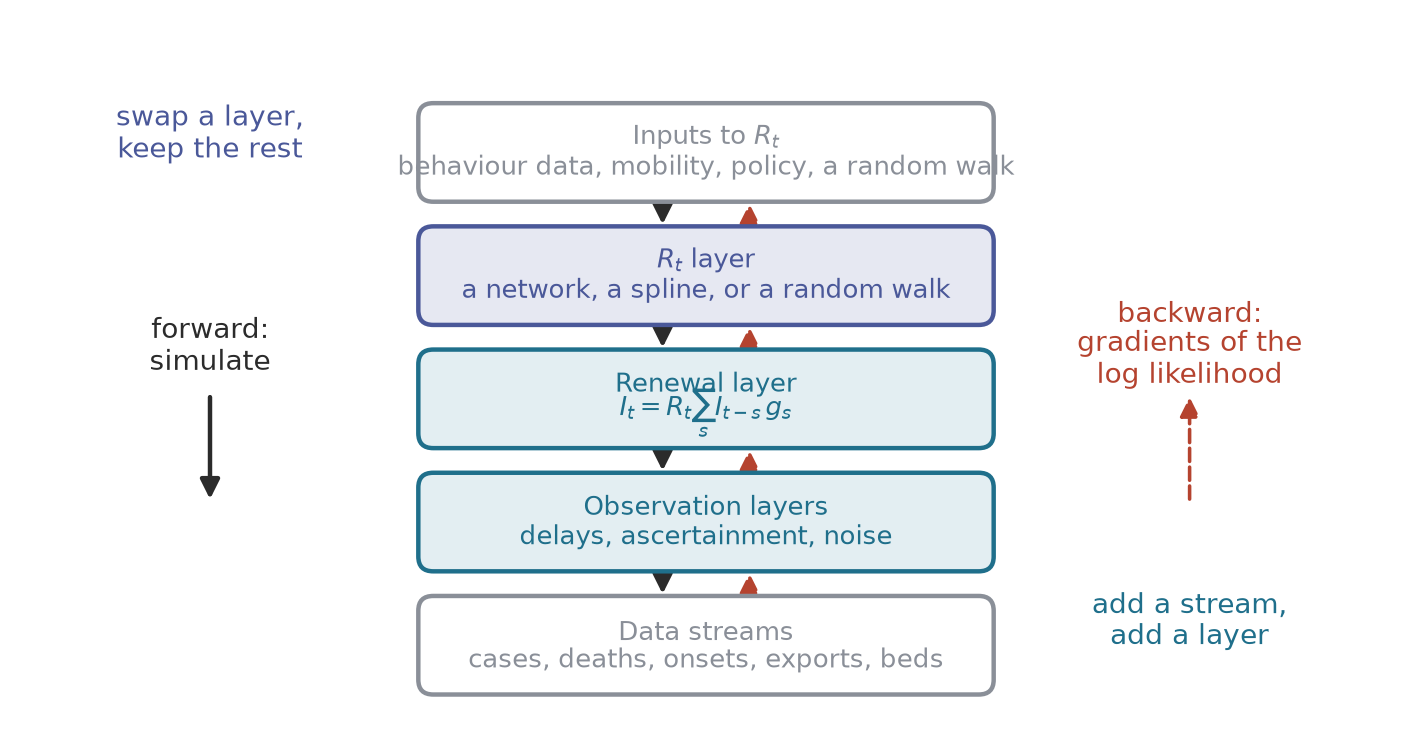
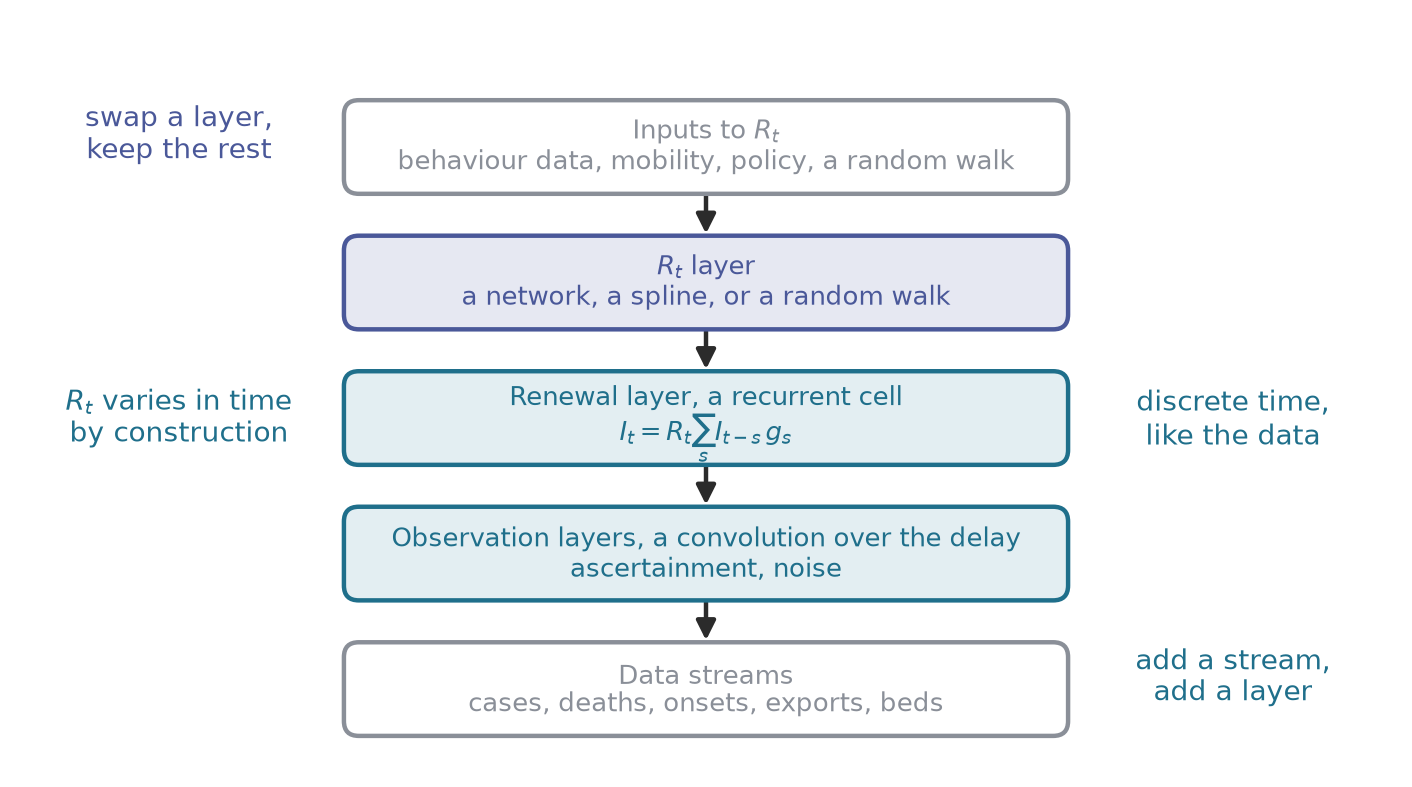
feat: keynote part two to his TODOs
UDEs defined with the Dandekar et al. epidemic application and its
limits, a physics-informed neural network slide from his outline, the
renewal layer with its advantages over an ODE PINN and Samuel Brand's
repository, foundation model line as his quote, RL defined.

Changed region(s): [[0.0312, 0.1248, 0.9348, 0.9674]]

diff --git a/scripts/keynote-schematics.py b/scripts/keynote-schematics.py
@@ -11,6 +11,7 @@ Writes, into figures/:
     keynote-map.png              Kraemer et al. 2025, Table 1, plus one row
     keynote-seir-vs-ude.png      a semi-mechanistic SEIR beside a UDE
     keynote-renewal-layer.png    a renewal process as a network layer
+    keynote-pinn.png             a physics-informed neural network
     keynote-foundation.png       a time series foundation model, zero-shot
     keynote-rl-loop.png          reinforcement learning for control
     keynote-agent-1.png          an agent: the inner loop
@@ -56,7 +57,7 @@ def canvas(w=10, h=5.2, xlim=None, ylim=None):
 
 
 def box(ax, x, y, w, h, text, colour=TEAL, fill=None, fs=14, lw=2,
-        weight="normal", text_colour=None, ls="-"):
+        weight="normal", text_colour=None, ls="-", spacing=1.15):
     patch = FancyBboxPatch((x, y), w, h,
                            boxstyle="round,pad=0.02,rounding_size=0.12",
                            edgecolor=colour, facecolor=fill or PALE[colour],
@@ -65,7 +66,7 @@ def box(ax, x, y, w, h, text, colour=TEAL, fill=None, fs=14, lw=2,
     if text:
         ax.text(x + w / 2, y + h / 2, text, ha="center", va="center",
                 fontsize=fs, color=text_colour or colour, fontweight=weight,
-                zorder=3, linespacing=1.15)
+                zorder=3, linespacing=spacing)
 
 
 def arrow(ax, p, q, colour=GREY, lw=2, style="-|>", rad=0.0, ls="-",
@@ -128,7 +129,7 @@ def ebola_delays():
           style="<|-|>")
     label(ax, 6.4, y - 0.95, "serial interval, onset to onset\nmean 15.3 days",
           colour=SLATE, fs=13, va="top")
-    box(ax, 8.45, 0.7, 1.85, 0.7, "case fatality 70.8%\n(69 to 73)",
+    box(ax, 8.25, 0.7, 2.05, 0.7, "case fatality\n70.8% (69 to 73)",
         colour=BRICK, fs=11.5)
     label(ax, 5.0, 0.28, "4,507 probable and confirmed cases by 14 September "
           "2014, from case investigation forms", colour=GREY, fs=11.5)
@@ -295,34 +296,71 @@ def seir_vs_ude():
 # 5. Renewal as a network layer ----------------------------------------------
 
 def renewal_layer():
-    fig, ax = canvas(11, 5.6)
-    x0, w = 3.2, 4.6
+    fig, ax = canvas(11, 6.0)
+    x0, w, h = 2.6, 5.8, 0.72
     layers = [
-        (4.55, "Inputs to $R_t$\nbehaviour data, mobility, policy, a random "
-         "walk", GREY),
-        (3.55, r"$R_t$ layer" + "\na network, a spline, or a random walk",
-         SLATE),
-        (2.55, "Renewal layer\n$I_t = R_t \\sum_s I_{t-s}\\, g_s$", TEAL),
-        (1.55, "Observation layers\ndelays, ascertainment, noise", TEAL),
-        (0.55, "Data streams\ncases, deaths, onsets, exports, beds", GREY),
+        (5.0, "Inputs to $R_t$\nbehaviour data, mobility, policy, a random "
+         "walk", GREY, 1.15),
+        (3.9, r"$R_t$ layer" + "\na network, a spline, or a random walk",
+         SLATE, 1.15),
+        (2.8, "Renewal layer, a recurrent cell\n"
+         "$I_t = R_t \\sum_s I_{t-s}\\, g_s$", TEAL, 1.6),
+        (1.7, "Observation layers, a convolution over the delay\n"
+         "ascertainment, noise", TEAL, 1.15),
+        (0.6, "Data streams\ncases, deaths, onsets, exports, beds", GREY,
+         1.15),
     ]
-    for y, text, colour in layers:
-        box(ax, x0, y - 0.38, w, 0.76, text, colour=colour, fs=11.5)
-    for (ya, _, _), (yb, _, _) in zip(layers[:-1], layers[1:]):
-        arrow(ax, (x0 + w / 2 - 0.35, ya - 0.38), (x0 + w / 2 - 0.35,
-                                                    yb + 0.38),
+    for y, text, colour, spacing in layers:
+        box(ax, x0, y - h / 2, w, h, text, colour=colour, fs=11.5,
+            spacing=spacing)
+    for (ya, *_), (yb, *_) in zip(layers[:-1], layers[1:]):
+        arrow(ax, (x0 + w / 2, ya - h / 2), (x0 + w / 2, yb + h / 2),
               colour=INK, lw=2)
-        arrow(ax, (x0 + w / 2 + 0.35, yb + 0.38), (x0 + w / 2 + 0.35,
-                                                    ya - 0.38),
-              colour=BRICK, lw=1.6, ls="--")
-    label(ax, 1.5, 3.0, "forward:\nsimulate", colour=INK, fs=12.5)
-    arrow(ax, (1.5, 2.6), (1.5, 1.7), colour=INK, lw=2)
-    label(ax, 9.4, 3.0, "backward:\ngradients of the\nlog likelihood",
-          colour=BRICK, fs=12.5)
-    arrow(ax, (9.4, 1.7), (9.4, 2.6), colour=BRICK, lw=1.6, ls="--")
-    label(ax, 1.5, 4.7, "swap a layer,\nkeep the rest", colour=SLATE, fs=12.5)
-    label(ax, 9.4, 0.75, "add a stream,\nadd a layer", colour=TEAL, fs=12.5)
+    label(ax, 1.25, 5.1, "swap a layer,\nkeep the rest", colour=SLATE,
+          fs=12.5)
+    label(ax, 1.25, 2.8, "$R_t$ varies in time\nby construction",
+          colour=TEAL, fs=12.5)
+    label(ax, 9.75, 2.8, "discrete time,\nlike the data", colour=TEAL,
+          fs=12.5)
+    label(ax, 9.75, 0.7, "add a stream,\nadd a layer", colour=TEAL, fs=12.5)
     save(fig, "keynote-renewal-layer.png")
+
+
+# 5b. A physics-informed neural network ------------------------------------
+
+def pinn():
+    fig, ax = canvas(11, 5.2)
+    box(ax, 0.2, 2.35, 1.1, 0.7, "time $t$", colour=GREY, fs=12)
+    arrow(ax, (1.3, 2.7), (1.9, 2.7), colour=GREY, lw=2)
+    box(ax, 1.9, 1.75, 2.4, 1.9, "", colour=BRICK)
+    nn_glyph(ax, 3.1, 2.95, scale=1.1, layers=(1, 4, 4, 3))
+    label(ax, 3.1, 2.05, "neural network", colour=BRICK, fs=11.5)
+    box(ax, 4.9, 3.05, 2.0, 0.8, "$S(t),\\; I(t),\\; R(t)$", colour=TEAL,
+        fs=12.5)
+    box(ax, 4.9, 1.65, 2.0, 0.8, r"$\beta(t)$", colour=SLATE, fs=12.5)
+    arrow(ax, (4.3, 3.05), (4.9, 3.45), colour=TEAL, lw=1.8)
+    arrow(ax, (4.3, 2.35), (4.9, 2.05), colour=SLATE, lw=1.8)
+    # Two losses.
+    box(ax, 7.6, 3.45, 2.7, 1.05, "Data loss\nmisfit to reported cases",
+        colour=TEAL, fs=11)
+    box(ax, 7.6, 1.15, 2.7, 1.25, "Physics loss\nresidual of\n"
+        r"$\dot S = -\beta S I / N$, ...", colour=SLATE, fs=11)
+    arrow(ax, (6.9, 3.6), (7.6, 3.85), colour=TEAL, lw=1.8)
+    arrow(ax, (6.9, 3.25), (7.6, 2.3), colour=TEAL, lw=1.4)
+    arrow(ax, (6.9, 2.05), (7.6, 1.85), colour=SLATE, lw=1.8)
+    label(ax, 7.75, 2.9, "autodiff gives $\\dot S, \\dot I, \\dot R$",
+          colour=GREY, fs=9.5, ha="left")
+    box(ax, 7.85, 0.15, 2.2, 0.6, "one loss, summed", colour=BRICK, fs=11,
+        weight="bold")
+    arrow(ax, (8.95, 1.15), (8.95, 0.75), colour=BRICK, lw=1.8)
+    arrow(ax, (10.3, 3.97), (10.6, 3.97), colour=BRICK, lw=1.4, style="-")
+    arrow(ax, (10.6, 3.97), (10.6, 0.45), colour=BRICK, lw=1.4, style="-")
+    arrow(ax, (10.6, 0.45), (10.05, 0.45), colour=BRICK, lw=1.4)
+    label(ax, 8.95, 4.85, "the data pull the fit, the equation holds it "
+          "to the model", colour=INK, fs=11.5)
+    label(ax, 3.1, 0.6, "trained on both losses at once,\nnetwork weights "
+          "and $\\beta(t)$ together", colour=GREY, fs=11, style="italic")
+    save(fig, "keynote-pinn.png")
 
 
 # 6. A time series foundation model, zero-shot -------------------------------
@@ -498,8 +536,6 @@ def agent_3():
         colour=TEAL, fs=10.5, weight="bold")
     label(ax, 1.0, 0.42, "grey: tried, scored,\ndropped", colour=GREY,
           fs=10, style="italic")
-    label(ax, 9.6, 0.42, "the score is the thing\nthat can be gamed",
-          colour=BRICK, fs=10, style="italic")
     save(fig, "keynote-agent-3.png")
 
 
@@ -510,6 +546,7 @@ if __name__ == "__main__":
     kraemer_map()
     seir_vs_ude()
     renewal_layer()
+    pinn()
     foundation()
     rl_loop()
     agent_1()

diff --git a/notes/k2-report.md b/notes/k2-report.md
@@ -1,0 +1,29 @@
+# Keynote partial 2, acting on his edits of 13 September
+
+File: `keynote/_partials/02-ai-methods.qmd`. Also `scripts/keynote-schematics.py`, `figures/keynote-renewal-layer.png` (redrawn), `figures/keynote-pinn.png` (new). Nothing committed.
+
+## Each TODO
+
+- **What even is AI?** His list as written. Spacing after "i.e." fixed on two lines. Nothing else touched.
+- **My view / And yet.** Kept as his two slides, attribution line under each.
+- **Kraemer map.** His shortened alt text kept.
+- **UDEs.** Definition bullet added (a differential equation with one or more terms a neural network, fitted jointly with the mechanistic parameters, Rackauckas et al. 2020). The "keep the compartments" bullet cut. "2020c" fixed. Philipps et al. 2025 is now a link to PMC12398592. Charlotte Holt and "most exciting where" bullets kept, tidied. Limitation bullet added: reporting not modelled, no comparison with a simple statistical or semi-mechanistic model as in Funk et al. 2019 (PLOS Comput Biol, the Ebola forecasts already in section 1). Funk 2019 added to the attribution.
+  - Source check. The Rackauckas et al. 2020 paper (arXiv:2001.04385, v4 text read via pdftotext) has no epidemic example; "spatial epidemiology" appears once as a reaction-diffusion benchmark. The epidemic UDE with Rackauckas as author is Dandekar, Rackauckas and Barbastathis 2020, Patterns 1(9):100145, PMC7671652: a neural network for quarantine strength in an SIR model fitted to case counts from 70 countries (abstract via Europe PMC). The slide cites that paper for "applied to epidemics" and the limitation bullet describes it. Full text was behind a 403, so the "reporting not modelled, no statistical comparison" reading rests on the abstract and my knowledge of the paper. Please check.
+- **PINNs.** Built from his outline: what they are (Raissi, Perdikaris and Karniadakis 2019, J Comput Phys, via Crossref), a schematic drawn by `pinn()` in the schematics script (time in, network, state and beta out, data loss and physics loss summed), epidemic uses (Kharazmi et al. 2021, Nat Comput Sci 1:744, via Crossref; research note B3 for the four locations), fitting to challenging data (Millevoi, Pasetto and Ferronato 2024, PLOS Comput Biol, doi 10.1371/journal.pcbi.1012387, cases and admissions jointly, fetched from PMC), applied successfully (Rama et al. 2026, arXiv:2506.03897, Italian influenza, competitive on the weighted interval score, fetched), limitations (deterministic, no uncertainty; extrapolation beyond the training window, both Millevoi et al.).
+- **Renewal as a layer.** His bullets kept, PINN spelled out, $R_t$ glossed. Added the advantages against a PINN on an ODE (time-varying parameters natural to a renewal process; discrete time matches the data). Repository is SamuelBrand1/RenewalExamples; the `conv` branch has `RenewalCell`, a Lux.jl recurrent cell for the renewal equation, and `delay_conv`, a delay as a convolution layer, so the schematic boxes now say "a recurrent cell" and "a convolution over the delay". Gradient arrows and the backward label removed; two side notes on time-varying $R_t$ and discrete time added. One-line grant attribution restored, repository cited by URL.
+- **AI-driven inference.** His three bullets kept, acronyms spelled (MCMC, SMC, ABC), "ID" expanded, merged "offer an alternative" with the simulate bullet.
+- **Foundation models.** "What kind of model?" answered: transformers, attention-based; TimesFM decoder-only, Chronos T5 (research note B2). His prospective question kept as a bullet. The outbreak-specific foundation model line is now a quote under the columns with "Sam Abbott, September 2026" in slate, as on the My view slide. It fits at 1080 (slide height 915).
+- **RL.** Title kept with his parenthetical. Added what it is, one sentence on how it differs from optimal control with JuMP, and his "how does it differ" left as an open question. PPO spelled out. Bullets otherwise his. Fits (height 1043).
+- **Patterns.** Acronyms spelled on first use (UDE, SIR, PINN, MCMC, SMC, PPO, ECDC in full). Quotes attributed in text. Divs balance (6 `::::` pairs, 25 `:::` pairs).
+
+## Layout
+
+Six slides carry five or six of his bullets, which overflowed at the default size. They use Quarto's `{.smaller}` slide class with a 42/58 column split. All section 2 slides render under 1080 px in `keynote-shots.py`; no overflow flagged.
+
+## Checks
+
+Rendered with the sandbox off. The six fenced-div warnings in the render come from `03-agents.qmd` ("Digitising from figures" slide), not this partial. `./scripts/lint.sh` clean for this file (remaining hits are in `03-agents.qmd`). llmisms greps: only author lists and alt text hit; two rewrites made (alt text "which", "best actions" to "optimal actions").
+
+## Slide count
+
+Section 2 now 10 content slides (two are single quotes), up two from his additions.
